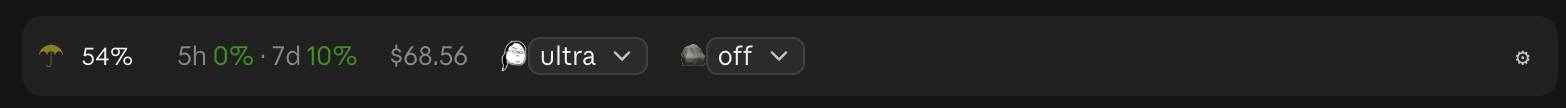
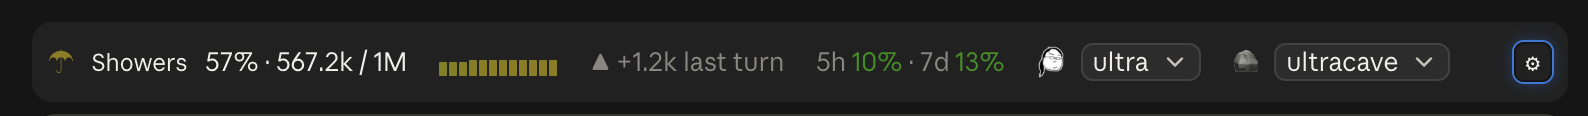
README: screenshots of the v0.5.0 layout (#9)
The band on one row with the desktop sparkline, limits, cost and the Ponytail and Caveman dropdowns; and the two-column Config box above a band wrapped onto a second row.

diff --git a/README.md b/README.md
@@ -5,7 +5,7 @@ forecast" of the context window, how much of your usage limits is spent, and the
 level [Ponytail](https://github.com/DietrichGebert/ponytail) and
 [Caveman](https://github.com/JuliusBrussee/caveman) are running at.
 
-![The band in the desktop app: forecast, usage limits, session cost, and the Ponytail and Caveman dropdowns, with ⚙ at the right](assets/band.png)
+![The band in the desktop app: forecast, sparkline, last-turn change, usage limits, session cost, and the Ponytail and Caveman dropdowns, with ⚙ at the right](assets/band.png)
 
 Once the context passes 75% (and Claude isn't mid-turn), a **Compact** button
 appears in the band.
@@ -59,7 +59,7 @@ also works in the desktop app, where `/config` isn't available:
 /overalls            (shows the current values)
 ```
 
-![The Config box open above the band, with every choice for each setting and the current one ticked](assets/config-box.png)
+![The Config box open above the band: every choice for each setting in two columns, the current one ticked; below it the band, wrapped onto a second row](assets/config-box.png)
 
 The **⚙** at the right of the band opens a **Config** box above it with every
 choice for every setting, the current one ticked; pressing one sets it, so you
